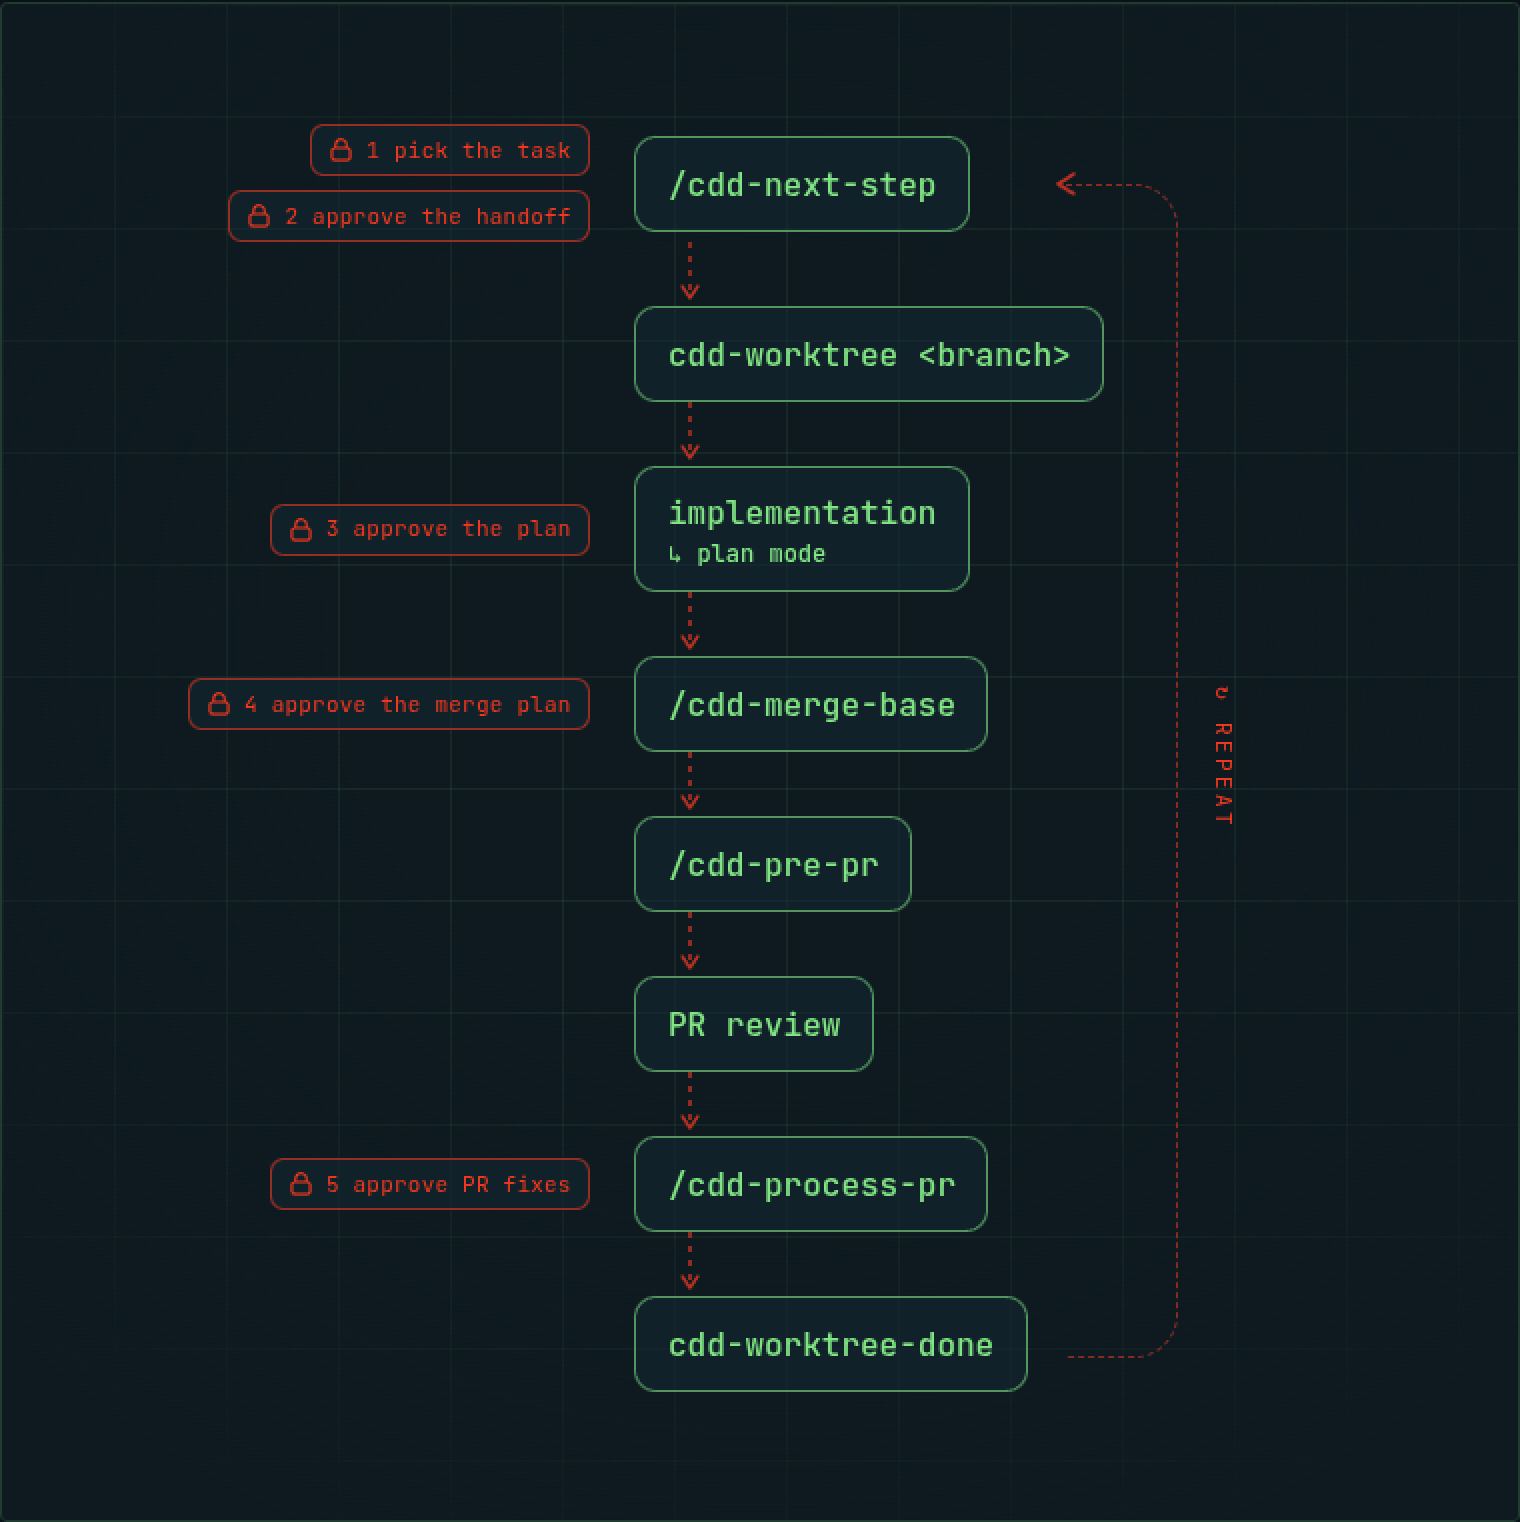
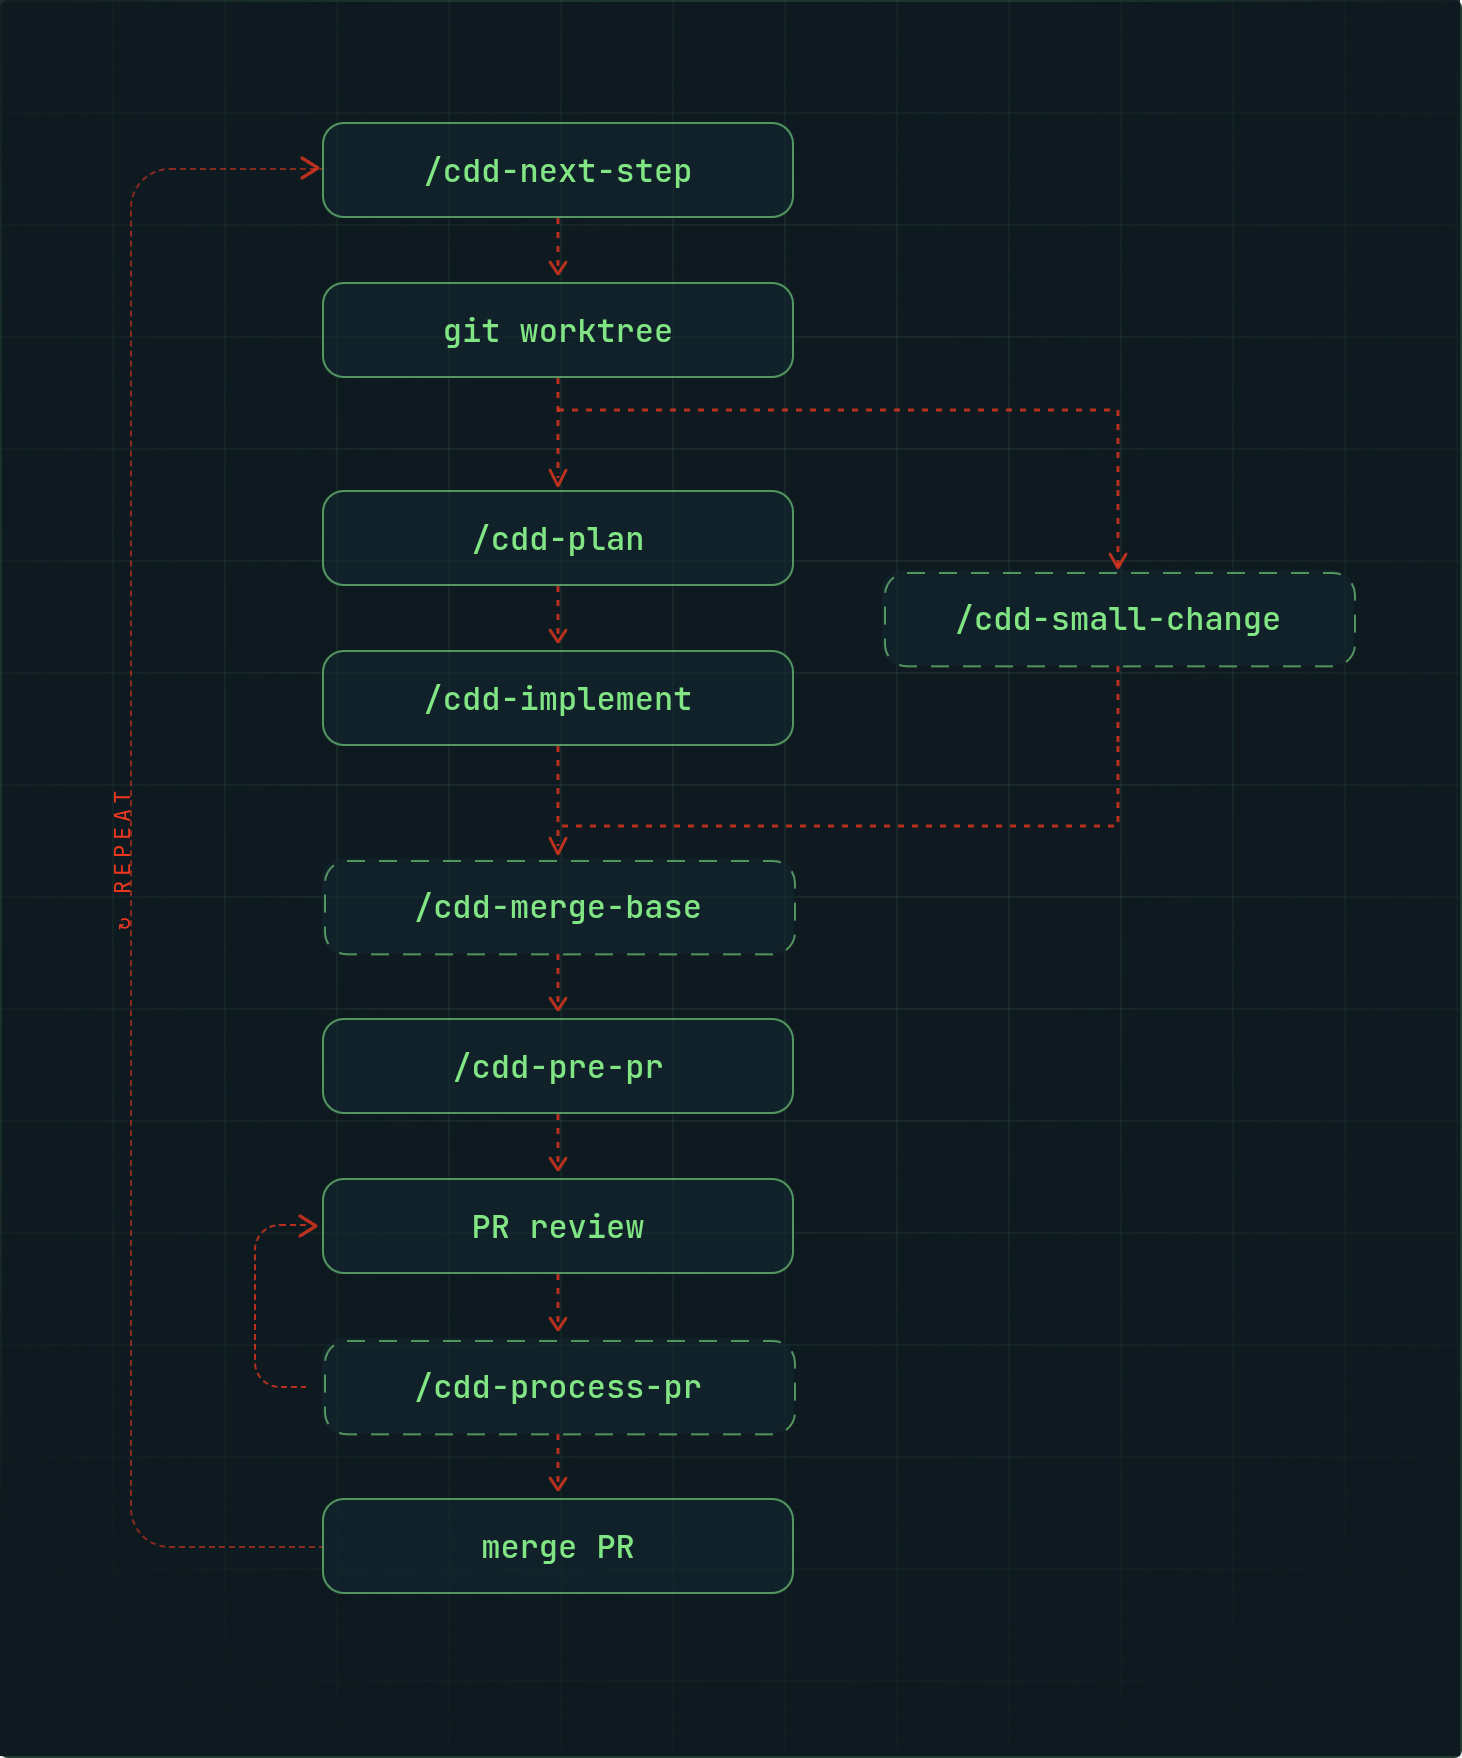
Replace the task-cycle diagram and rewrite its alt text (#111)
The new diagram shows the plan/implement split and the small-change
lane, and drops the numbered human-gate labels. Refs #83.

diff --git a/README.md b/README.md
@@ -20,7 +20,7 @@ Documentation gets the same care, and not just for your benefit. A structured kn
 
 ## How it works
 
-![CDD task cycle: start a session and run /cdd-next-step to queue a task, spin up an isolated worktree, plan and build, optionally /cdd-merge-base, run /cdd-pre-pr to self-review and open the PR, review on GitHub, optionally /cdd-process-pr for review feedback, merge, then clean up and repeat, with locked human gates down the left.](doc/assets/task-cycle.png)
+![CDD task cycle: /cdd-next-step, then a git worktree, then either /cdd-plan followed by /cdd-implement or a single /cdd-small-change; both paths rejoin at an optional /cdd-merge-base, then /cdd-pre-pr and PR review, looping through an optional /cdd-process-pr back to review, then merge the PR and repeat.](doc/assets/task-cycle.png)
 
 One full turn around the cycle:
 
